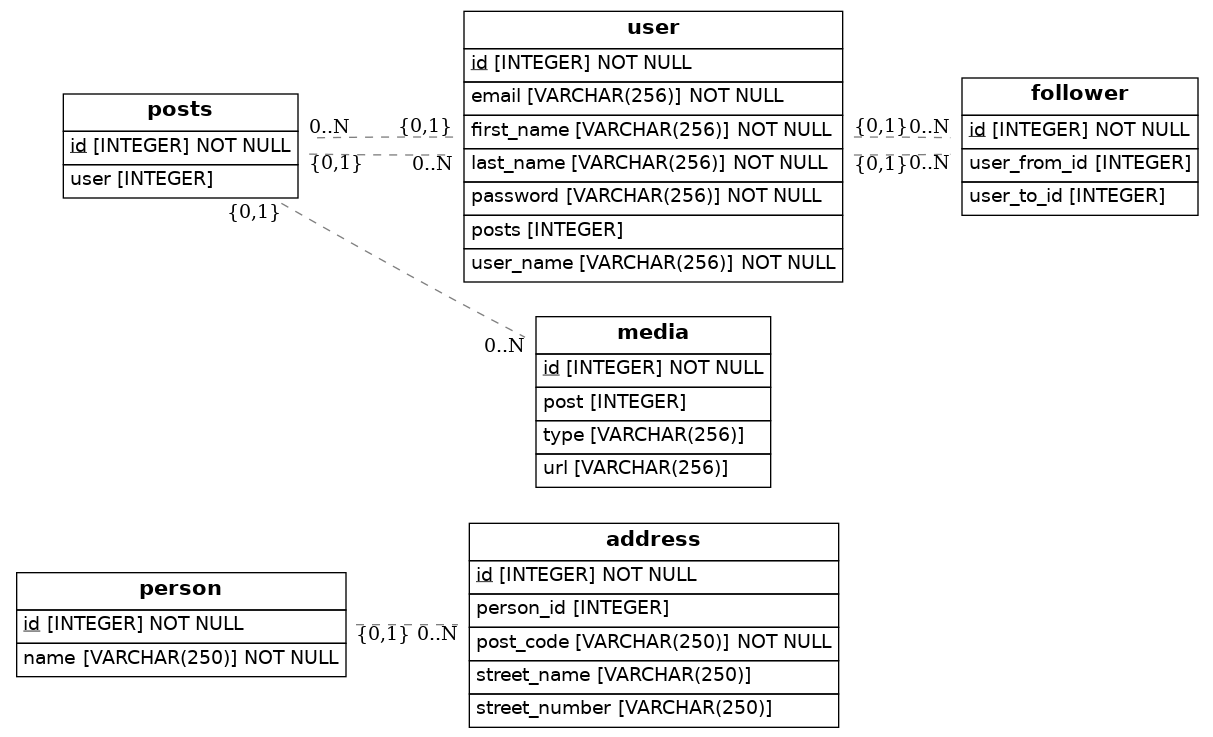
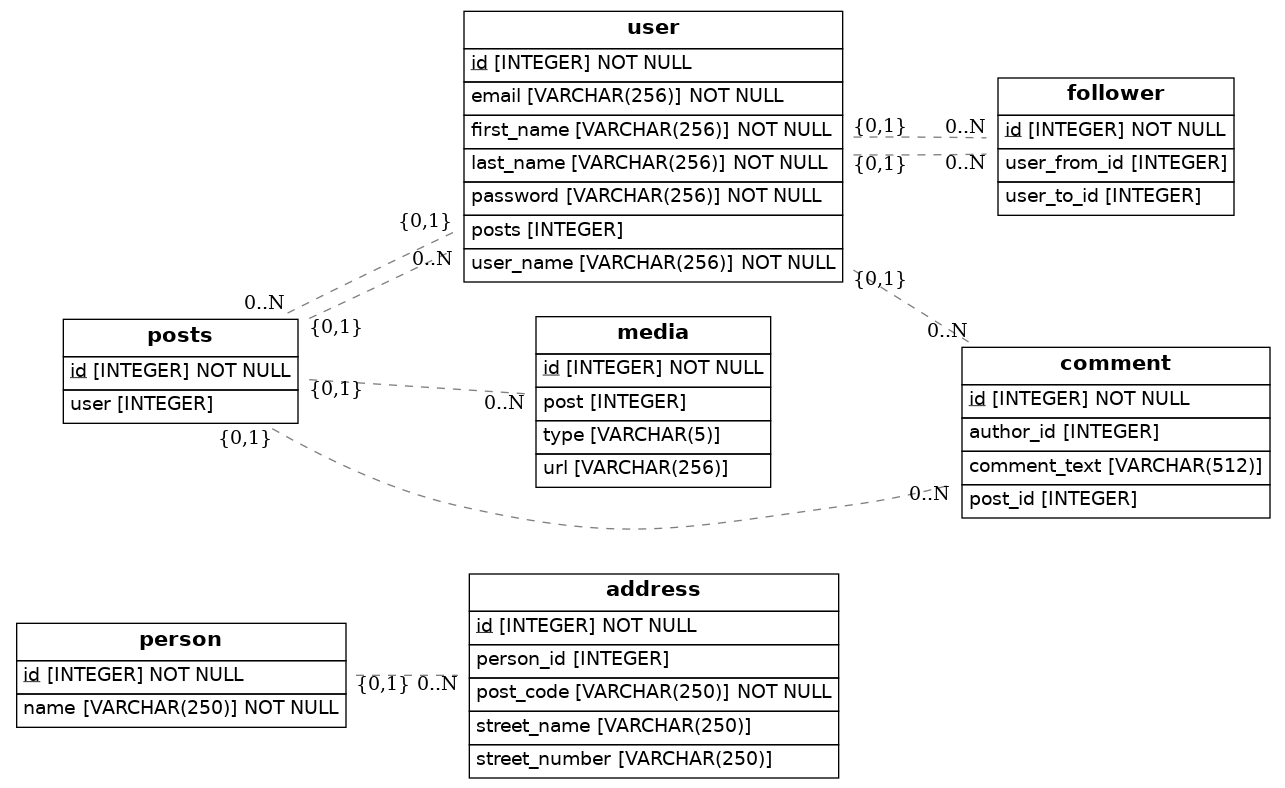
Completed database project

diff --git a/src/models.py b/src/models.py
@@ -4,6 +4,8 @@ from sqlalchemy import Column, ForeignKey, Integer, String
 from sqlalchemy.orm import relationship, declarative_base
 from sqlalchemy import create_engine
 from eralchemy2 import render_er
+from enum import Enum
+from sqlalchemy import Enum as SaEnum
 
 Base = declarative_base()
 
@@ -54,14 +56,23 @@ class Follower(Base):
     user_from_id = Column(Integer, ForeignKey('user.id'))
     user_to_id = Column(Integer, ForeignKey('user.id'))
 
+class Type(Enum):
+    IMAGE = 1 
+    VIDEO = 2
 
 class Media(Base):
     __tablename__ = 'media'
     id = Column(Integer, primary_key=True)
-    type = Column(String(256))
+    type = Column(SaEnum(Type))
     url = Column(String(256))
     post = Column(Integer, ForeignKey('posts.id'))
 
+class Comment(Base):
+    __tablename__ = 'comment'
+    id = Column(Integer, primary_key=True)
+    comment_text = Column(String(512))
+    author_id = Column(Integer, ForeignKey('user.id'))
+    post_id = Column(Integer, ForeignKey('posts.id'))
 
 # Draw from SQLAlchemy base
 try:
